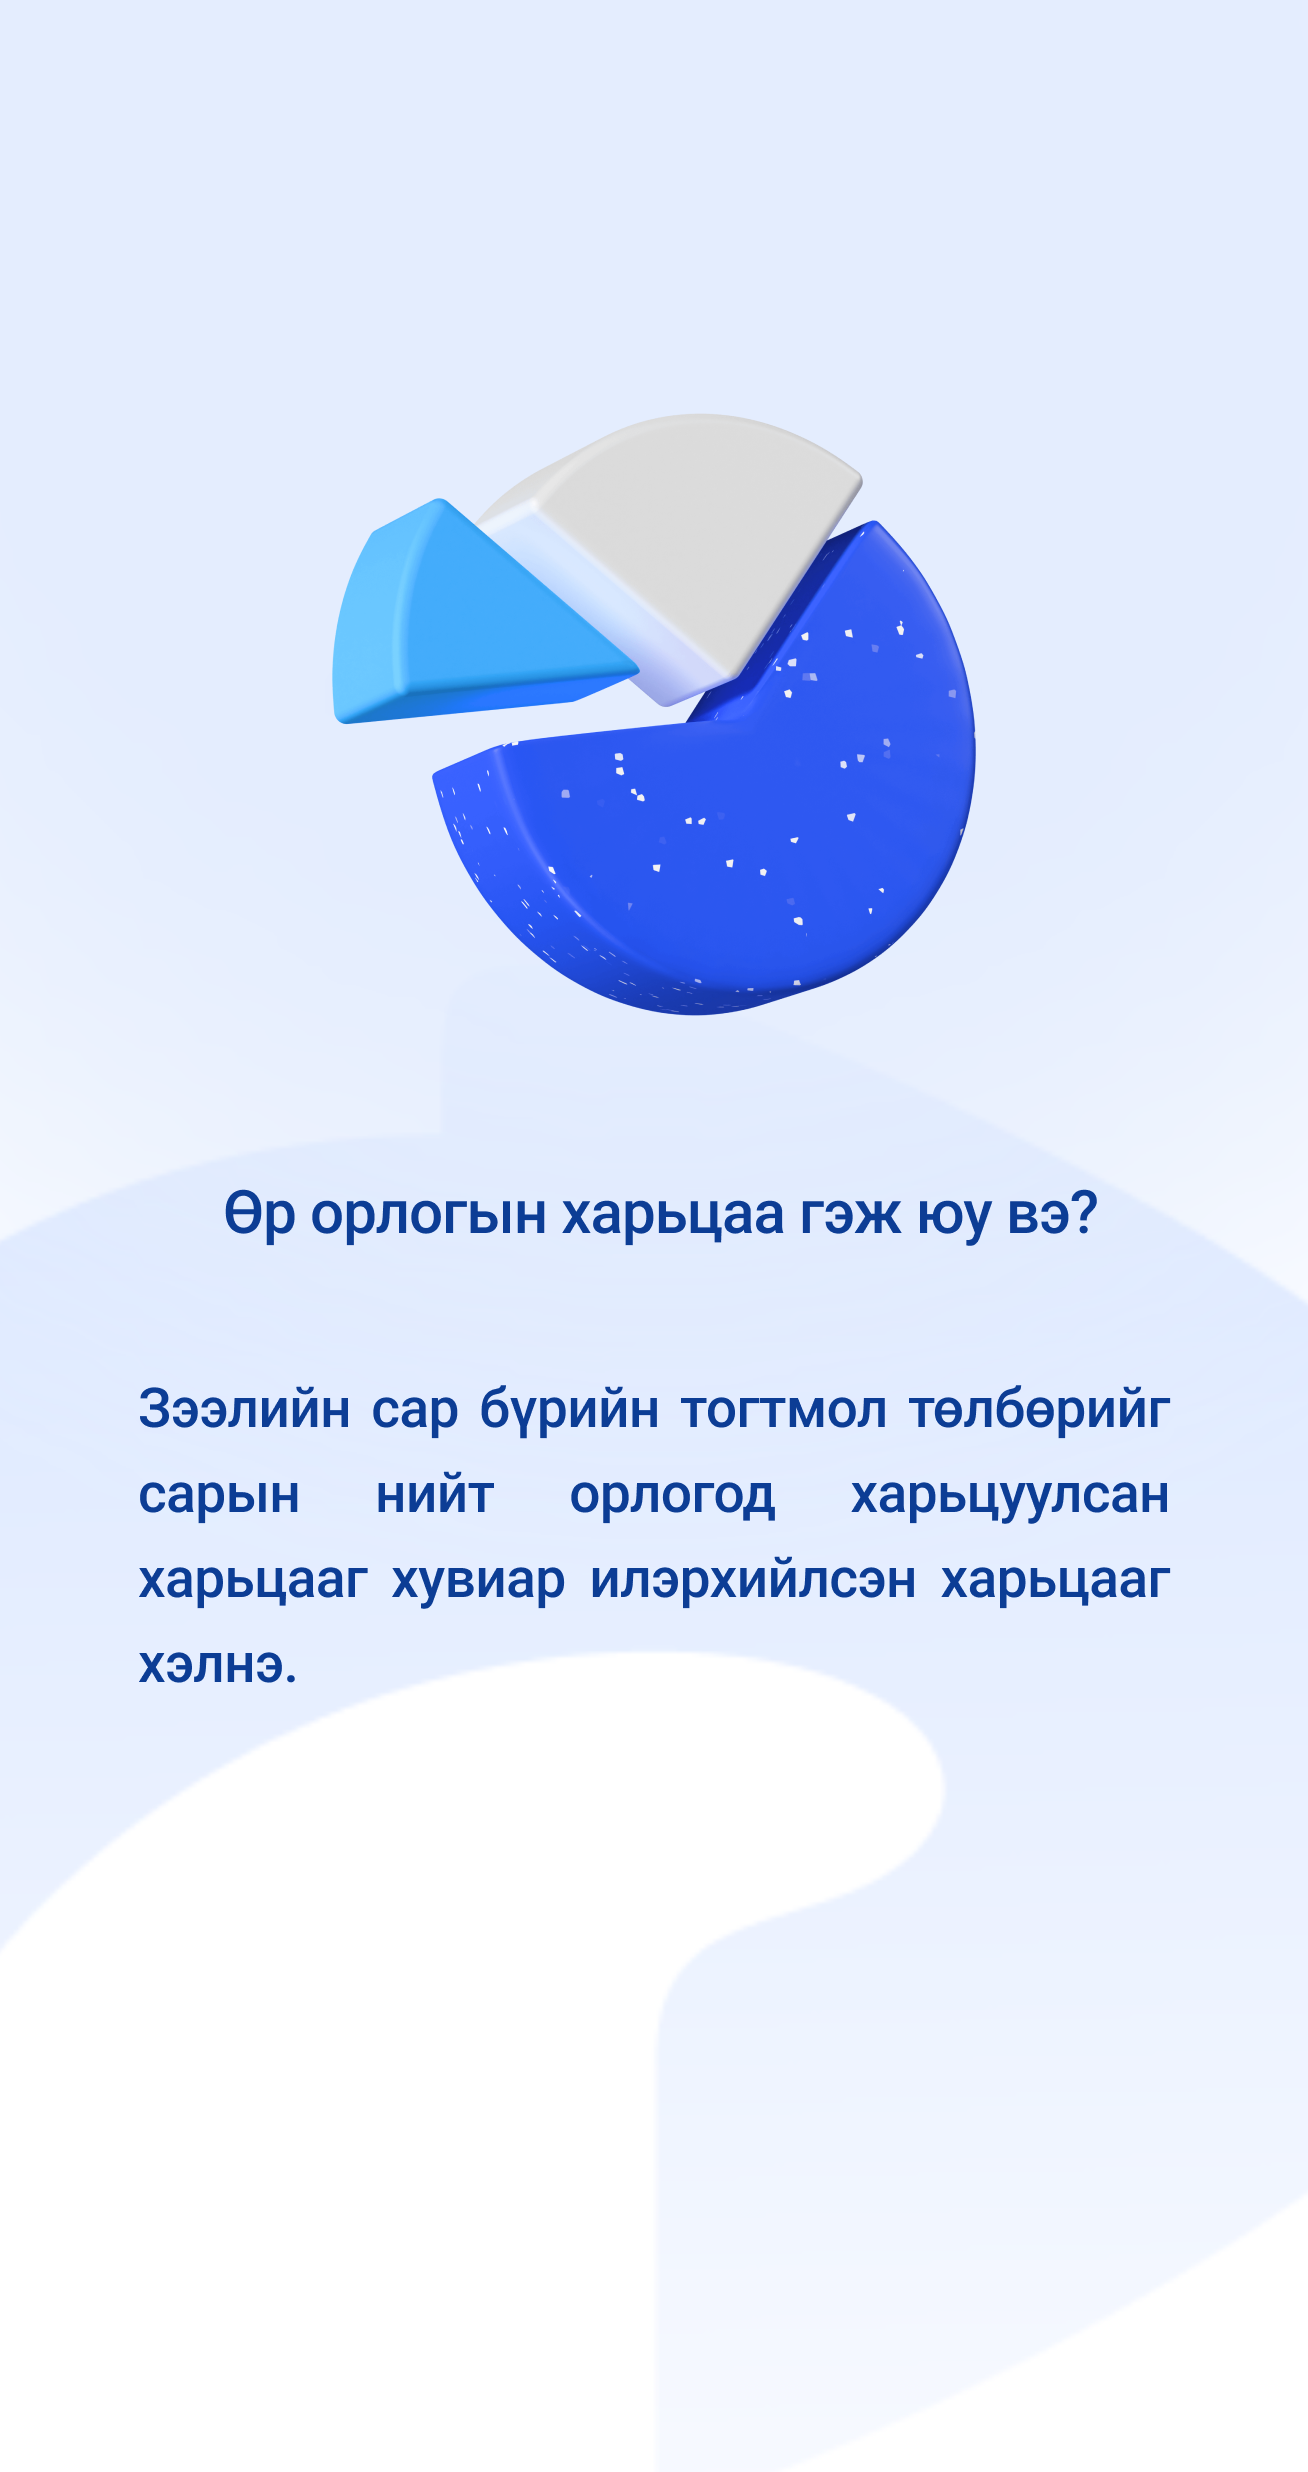
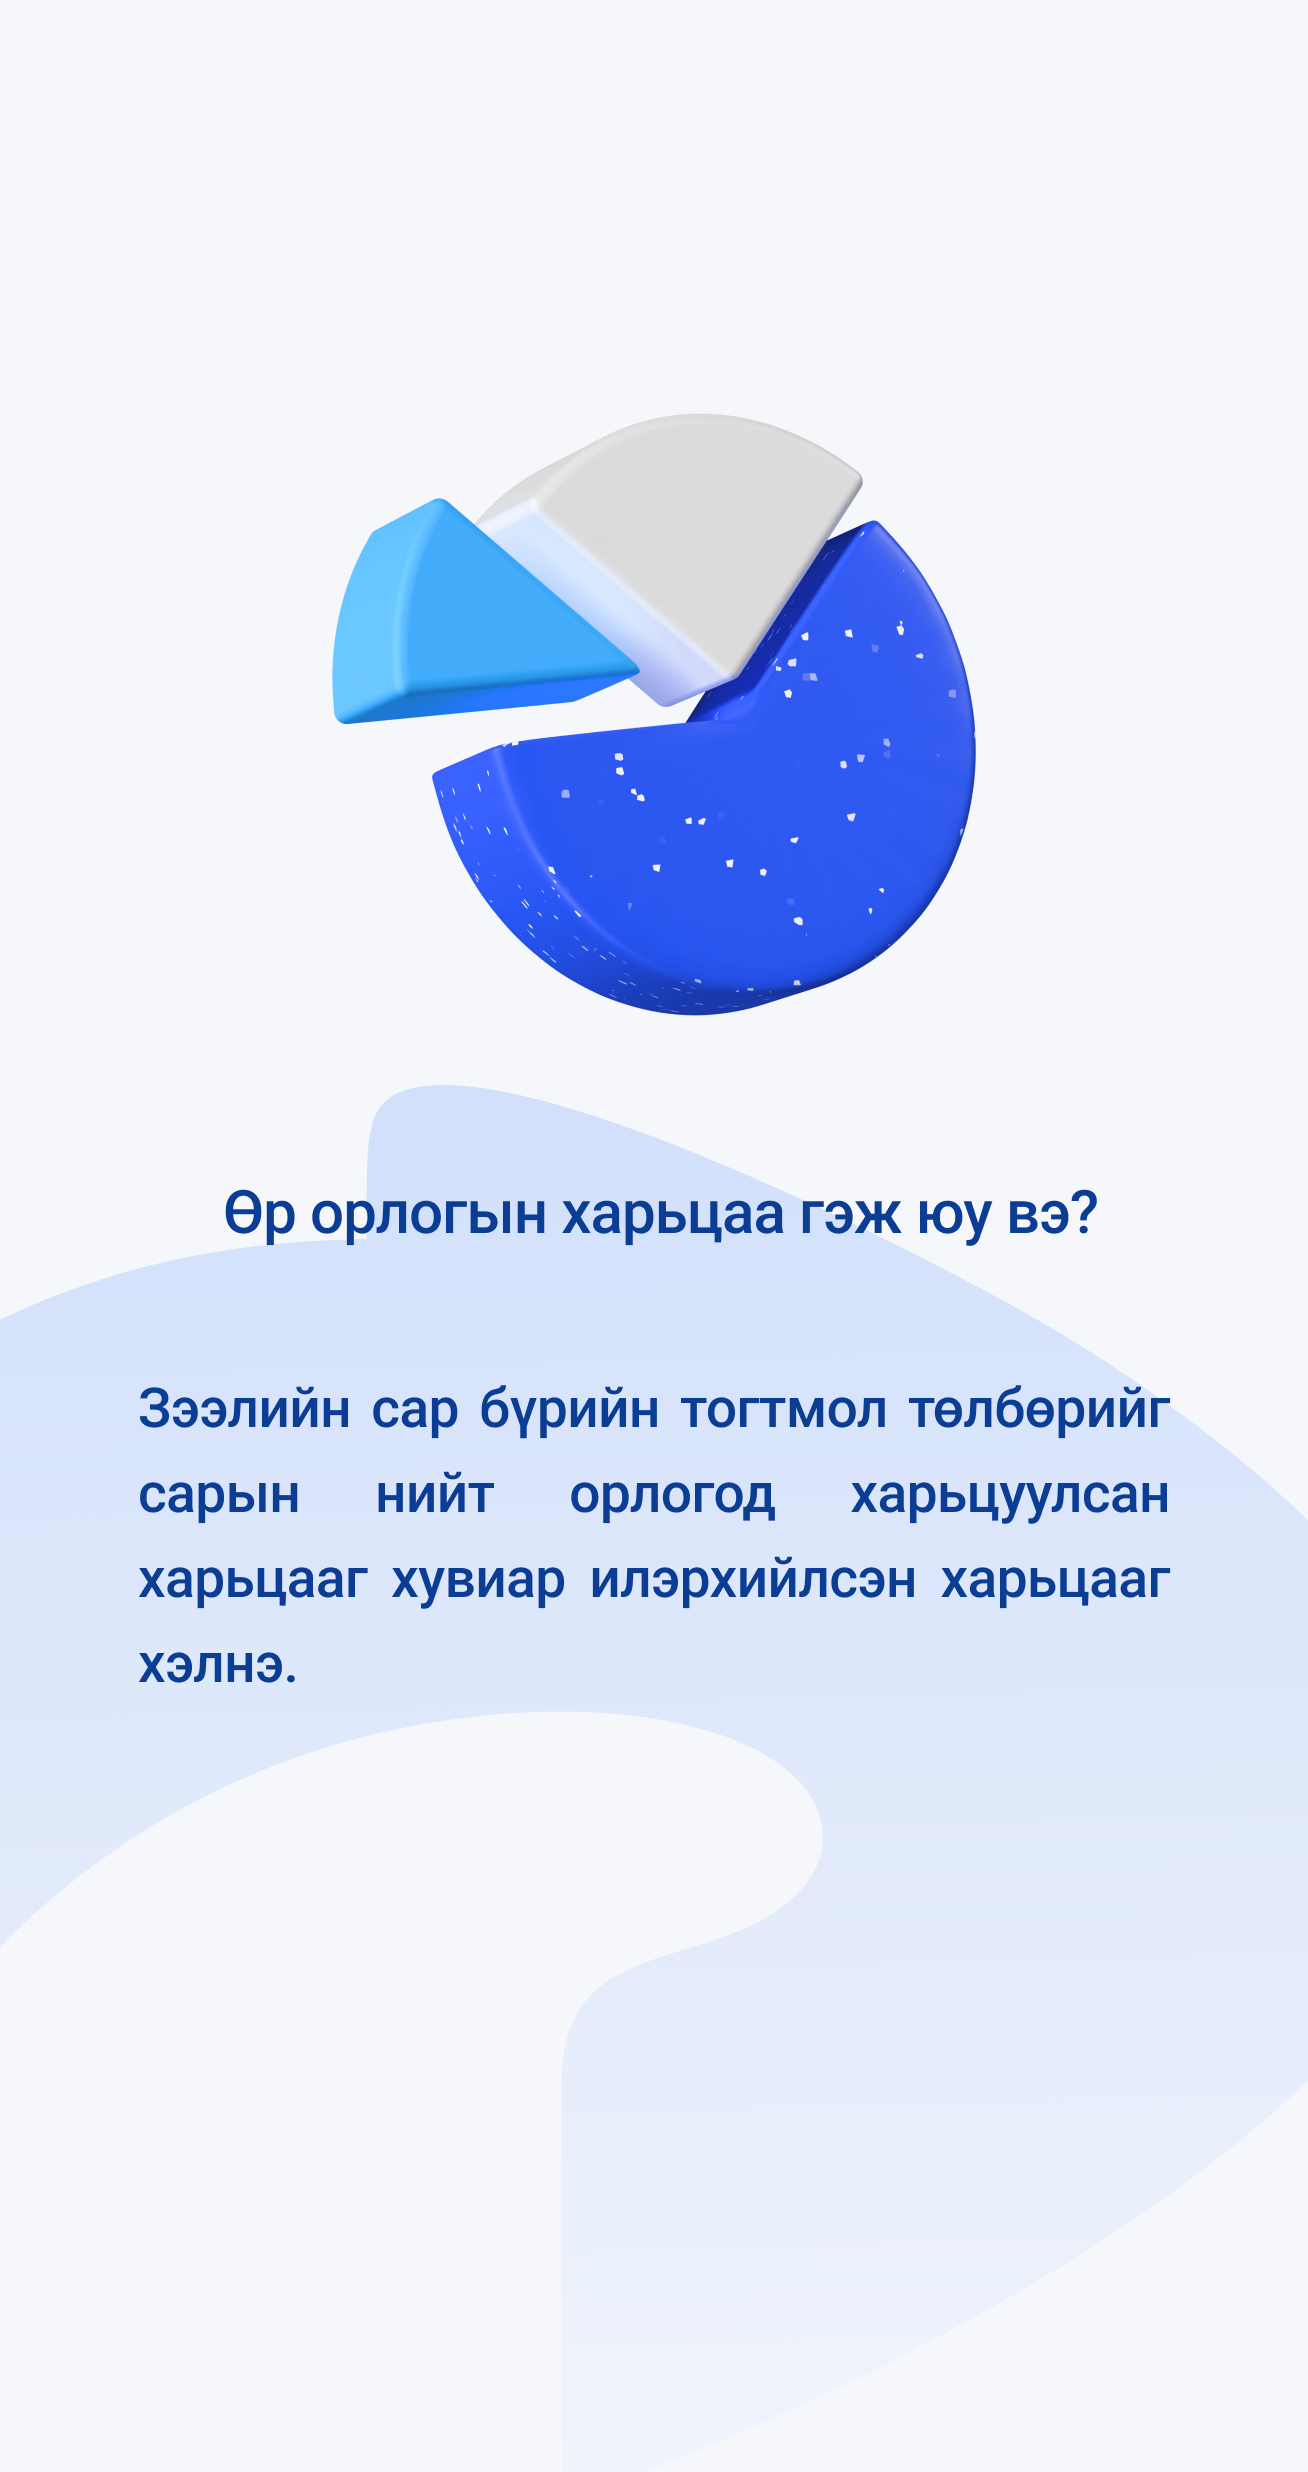
Hemjee tohiruullaa

Changed region(s): [[0.1835, 0.6541, 0.7339, 0.7787], [0.4281, 0.7787, 0.5199, 0.841], [0.0917, 0.7164, 0.1835, 0.7476]]

diff --git a/style.css b/style.css
@@ -2,12 +2,18 @@
 @import url('https://unpkg.com/css.gg@2.0.0/icons/css/chevron-left.css');
 @import url('https://unpkg.com/css.gg@2.0.0/icons/css/close.css');
 @import url('https://fonts.googleapis.com/css?family=Roboto');
+@import url('https://fonts.googleapis.com/css?family=Manrope');
 *{
   margin: 0;
   padding: 0;
 }
+*:before,
+*:after {
+  box-sizing: inherit;
+}
+
 body {
-  background: #1b1d20;
+  background: #F5F7FA;
   font-family: 'Roboto';
   font-style: normal;
 }
@@ -36,19 +42,14 @@ box-shadow: 5px 5px 10px 0 rgba(	211,221,239, 0.53) ;
 a {
   text-decoration: none;
 }
-
-.slide {
+.menu {
   display: grid;
   grid-template-rows: 1fr auto;
-  /* max-width: 390px;
-  max-height: 844px; */
   font-weight: 700;
   width: 100vw;
   height:100vh;
-  /* margin: 0 auto; */
   cursor: pointer;
   background: #F5F7FA;
-  /* border-radius: 10px; */
   box-shadow: 0 4px 20px 2px rgba(0, 0, 0, 0.4);
   overflow-x: hidden;
  
@@ -64,9 +65,9 @@ a {
 }
 .header-close {
   position: absolute;
-  top: 20px;
+  top: 30px;
   right: 10px;
-  z-index: 1;
+  z-index: 200;
   cursor: pointer;
   color: #000;
 }
@@ -77,9 +78,10 @@ a {
   height: 1.5rem ;
 }
 .head{
+  font-family: 'Manrope';
   position: relative;
-  top: 0.8rem;
-  left: 1rem;
+  left: 40px;
+  margin-top: 50px;
   z-index: 2;
   color: #353F4A;
   font-size: 1rem;
@@ -88,20 +90,30 @@ a {
   
 }
 .desc{
-  font-family: 'Roboto';
+  font-family: 'Manrope';
   font-style: normal;
-  font-weight: 700;
-  font-size: 0.8rem;
+  font-weight: 600;
+  font-size: 14px;
   color: #353F4A;
 }
-.content{
+.slide {
   display: grid;
+  grid-template-rows: 1fr auto;
+  font-weight: 600;
+  width: 100vw;
+  height:auto;
+  cursor: pointer;
+  background: #F5F7FA;
+  overflow-x: hidden;
+  overflow-y: auto;
+ 
 }
 .slide-items {
   position: relative;
   grid-area: 1/1;
   border-radius: 5px;
-  overflow: hidden;
+  overflow-y: auto;
+  overflow-x: hidden;
 }
 .slide-icon-left{
   margin-left: 1.5rem;
@@ -110,6 +122,7 @@ a {
   margin-right: 1.5rem;
 }
 .slide-nav {
+  margin-top: 30px;
   grid-area: 1/1;
   z-index: 1;
   display: grid;
@@ -136,7 +149,7 @@ a {
 }
 .close {
   position: absolute;
-  top: 30px;
+  top: 50px;
   right: 10px;
   z-index: 3;
   cursor: pointer;

diff --git a/index.html b/index.html
@@ -5,13 +5,10 @@
     <meta name="viewport" content="width=device-width, initial-scale=1.0" />
     <title>Sendly loan</title>
     <link rel="stylesheet" href="./style.css" />
-
   </head>
-
   <body>
-    <div data-slide="slide" class="slide">
+    <div data-slide="slide" class="menu">
       <div class="slide-flex">
-        <div class="header">  <img src="./img/logo.png" /></div>
         <div class="head">Сэндли зөвлөх</div>
           <div class="slide-menu">
             <div class="slide-icon-left">

diff --git a/payment.html b/payment.html
@@ -9,11 +9,11 @@
   </head>
 
   <body>
-    <div data-slide="slide" class="slide">
+    <div data-slide="slide" class="menu">
       <div class="slide-flex">
-        <div class="header"> <img src="./img/logo.png" /> <a href="index.html">
+         <a href="index.html">
           <div class="header-close"><i class="gg-close"></i></div
-        ></a></div>  
+        ></a> 
         <div class="head">Зээл төлөх</div>
           <div class="slide-menu">
             <div class="slide-icon-left">
